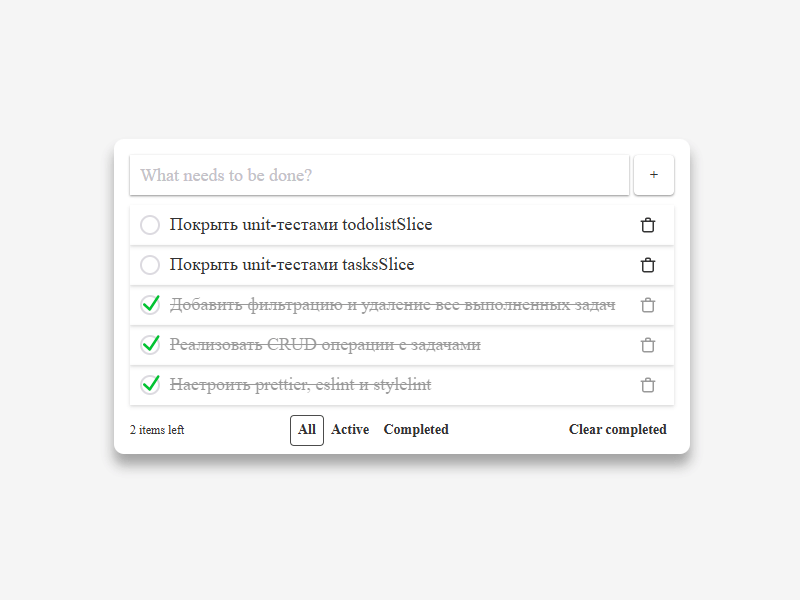
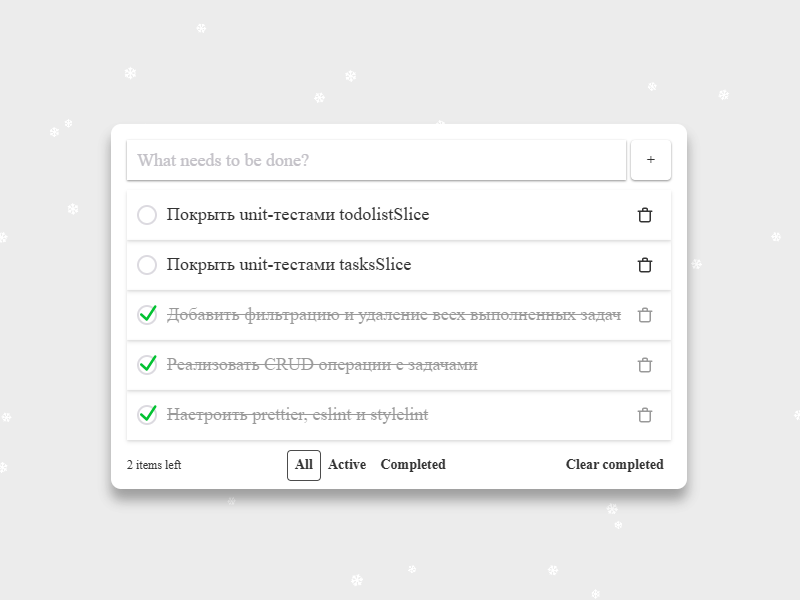
feat: Added snowflakes.

Changed region(s): [[0.125, 0.24, 0.875, 0.87]]

diff --git a/src/app/App.tsx b/src/app/App.tsx
@@ -1,11 +1,24 @@
+import { Snowfall } from "react-snowfall";
 import { ToastContainer } from "react-toastify";
 import { Todolist } from "../widgets/todolist/todolist.tsx";
 import s from "./app.module.scss";
 import "react-toastify/dist/ReactToastify.css";
+import snowflakeSrc from "../shared/assets/images/snowflake.png";
 
 export function App() {
+  const snowflake = new Image();
+  snowflake.src = snowflakeSrc;
+
   return (
     <div className={s.app}>
+      <Snowfall
+        color="red"
+        images={[snowflake]}
+        snowflakeCount={100}
+        speed={[0.02, 0.05]}
+        radius={[10.0, 15.0]}
+        wind={[-0.1, 0.1]}
+      />
       <Todolist />
       <ToastContainer
         autoClose={5000}

diff --git a/src/shared/styles/_colors.scss b/src/shared/styles/_colors.scss
@@ -2,7 +2,7 @@
   // light
   --color-light-100: #fff;
   --color-light-300: #f9f7ff;
-  --color-light-500: #f5f5f5;
+  --color-light-500: #ececec;
   --color-light-700: #dcdae0;
   --color-light-900: #c3c1c7;
 

diff --git a/src/widgets/todolist/todolist.module.scss b/src/widgets/todolist/todolist.module.scss
@@ -1,4 +1,5 @@
 .todolist {
+  position: relative;
   display: flex;
   justify-content: space-between;
   width: 100%;
